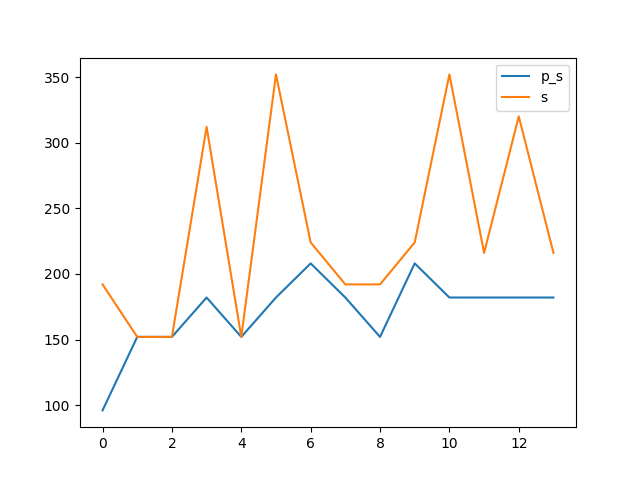
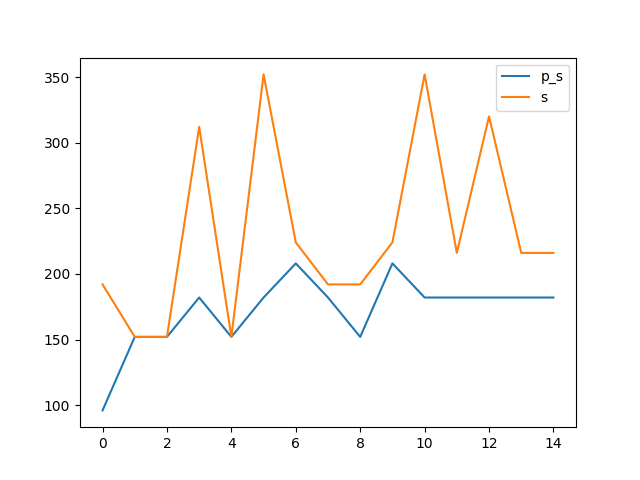
0x000E

diff --git a/benchmark.md b/benchmark.md
@@ -28,9 +28,11 @@ Synthesising 0x000C pexact:182 r=4 exact:320 r=4
 
 Synthesising 0x000D pexact:182 r=4 exact:216 r=3
 
+Synthesising 0x000E pexact:182 r=4 exact:216 r=3
+
 ![image1](benchmark_r.png?)
 
 ![image2](benchmark_s.png?)
 
- avg_p_s=171.0 avg_s=232.0 avg_pr=3.71 avg_r=3.36
+ avg_p_s=171.73 avg_s=230.93 avg_pr=3.73 avg_r=3.33
 
